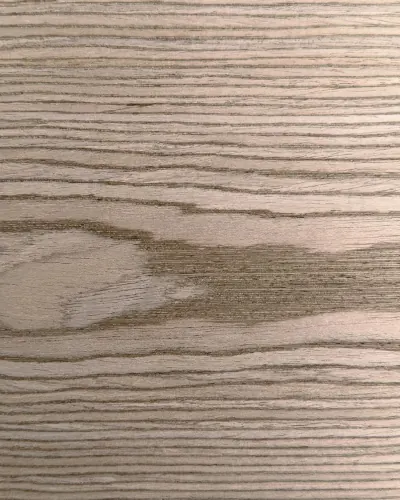
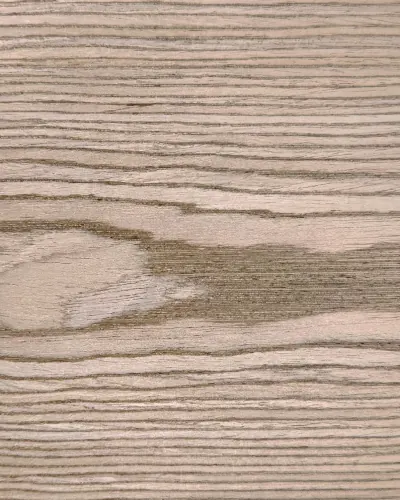
Even out the lighting on the Pastel Walnut swatch

diff --git a/src/data.js b/src/data.js
@@ -3083,7 +3083,7 @@ export const PRODUCTS = [
     tones: ['warm'],
     species: 'American Black Walnut (Juglans nigra)',
     idSpecies: 'Walnut Hitam Amerika (Juglans nigra)',
-    image: '/assets/image/OSLO PASTEL WALNUT.webp?v=5',
+    image: '/assets/image/OSLO PASTEL WALNUT.webp?v=6',
     bestFor: 'Modern commercial interiors, muted residential palettes, sleek built-ins',
     idBestFor: 'interior komersial modern, palet residensial redup, perabot tanam ramping',
     finish: 'Matte lacquer',
